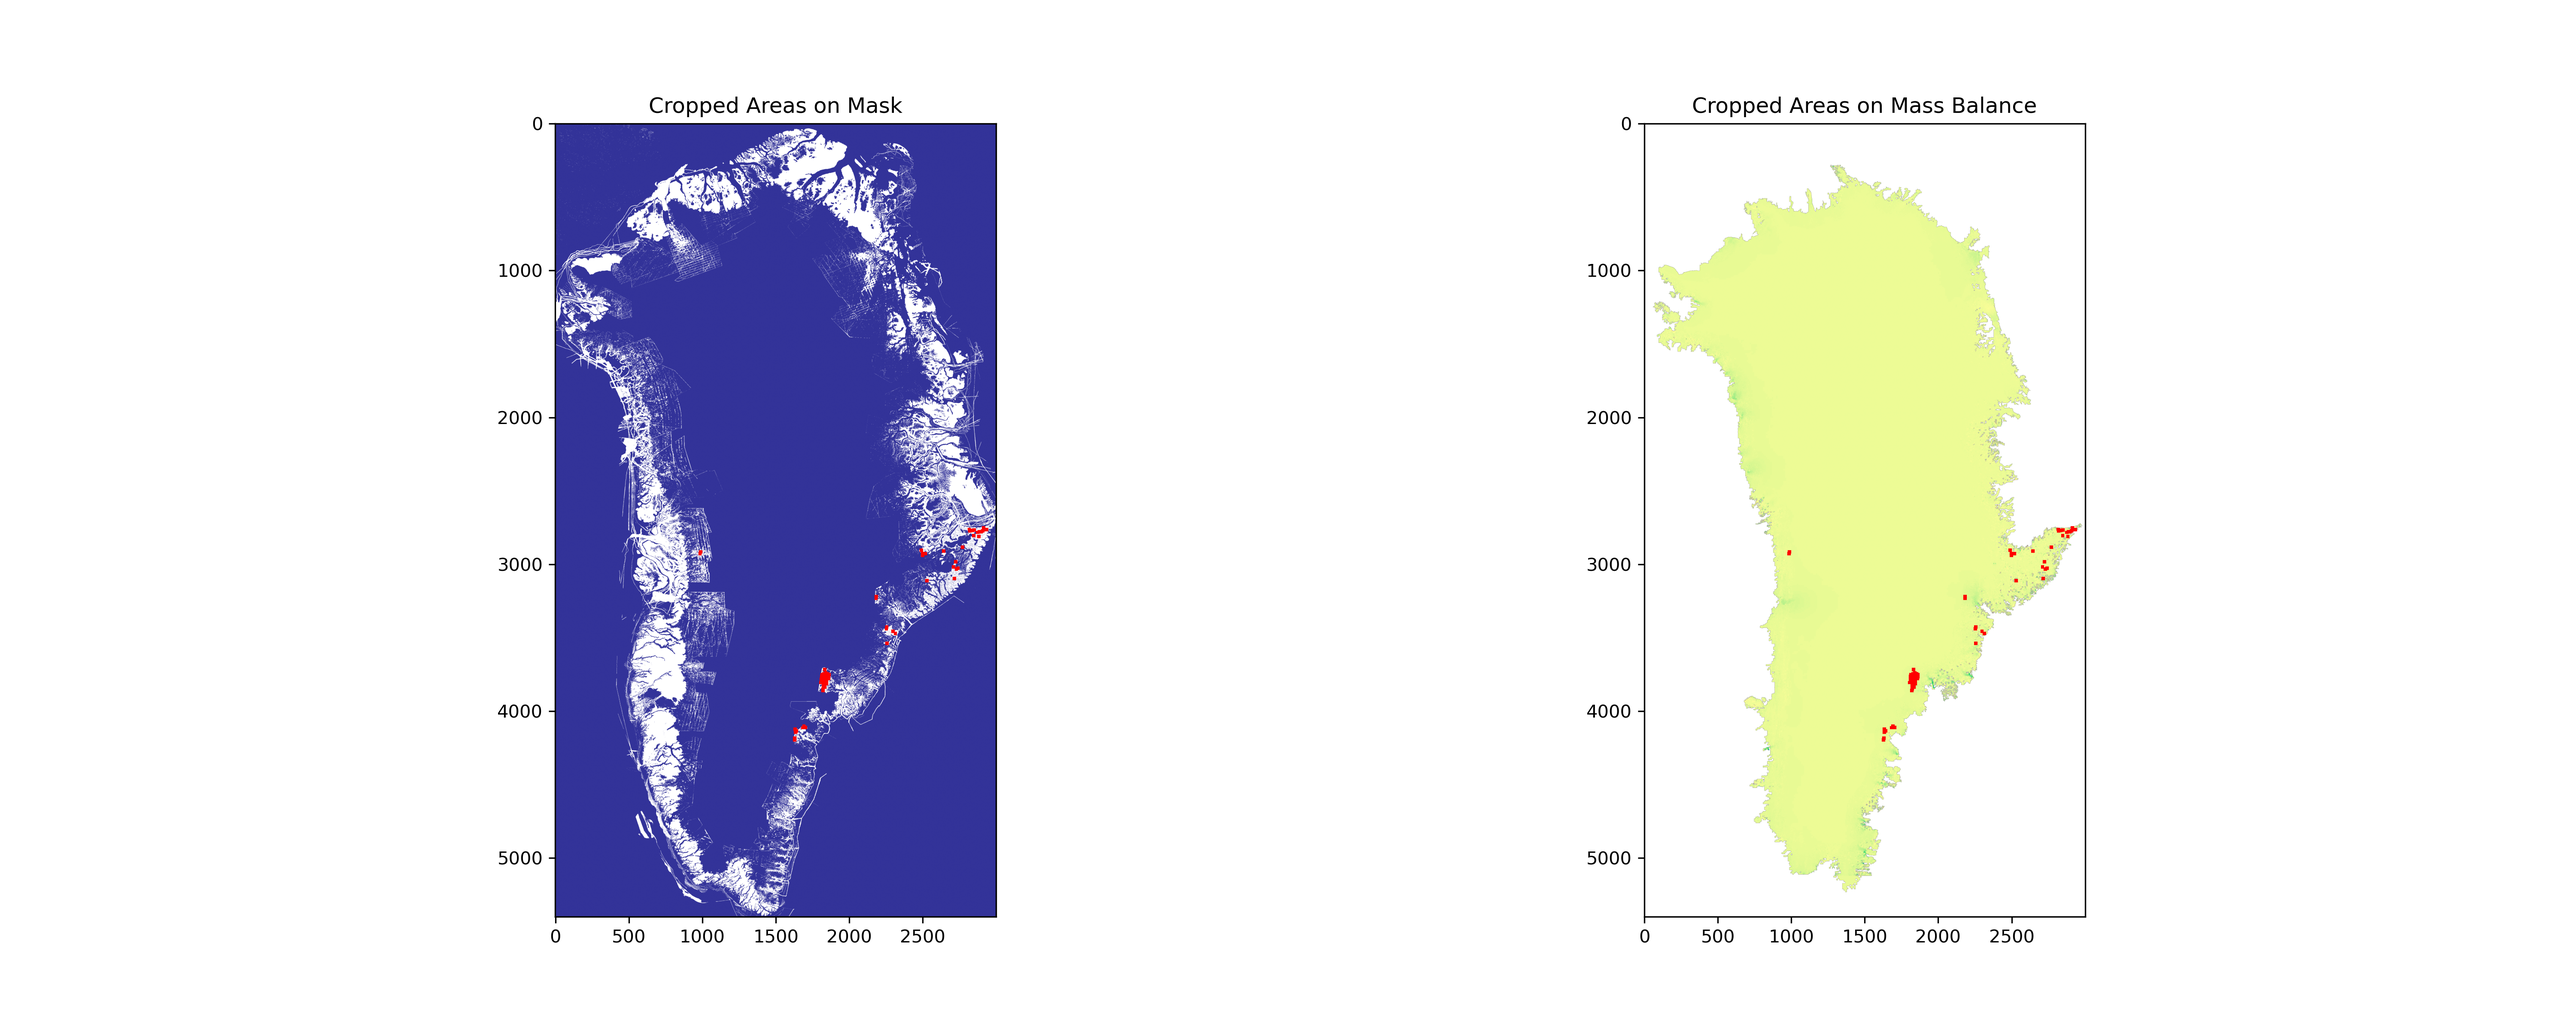
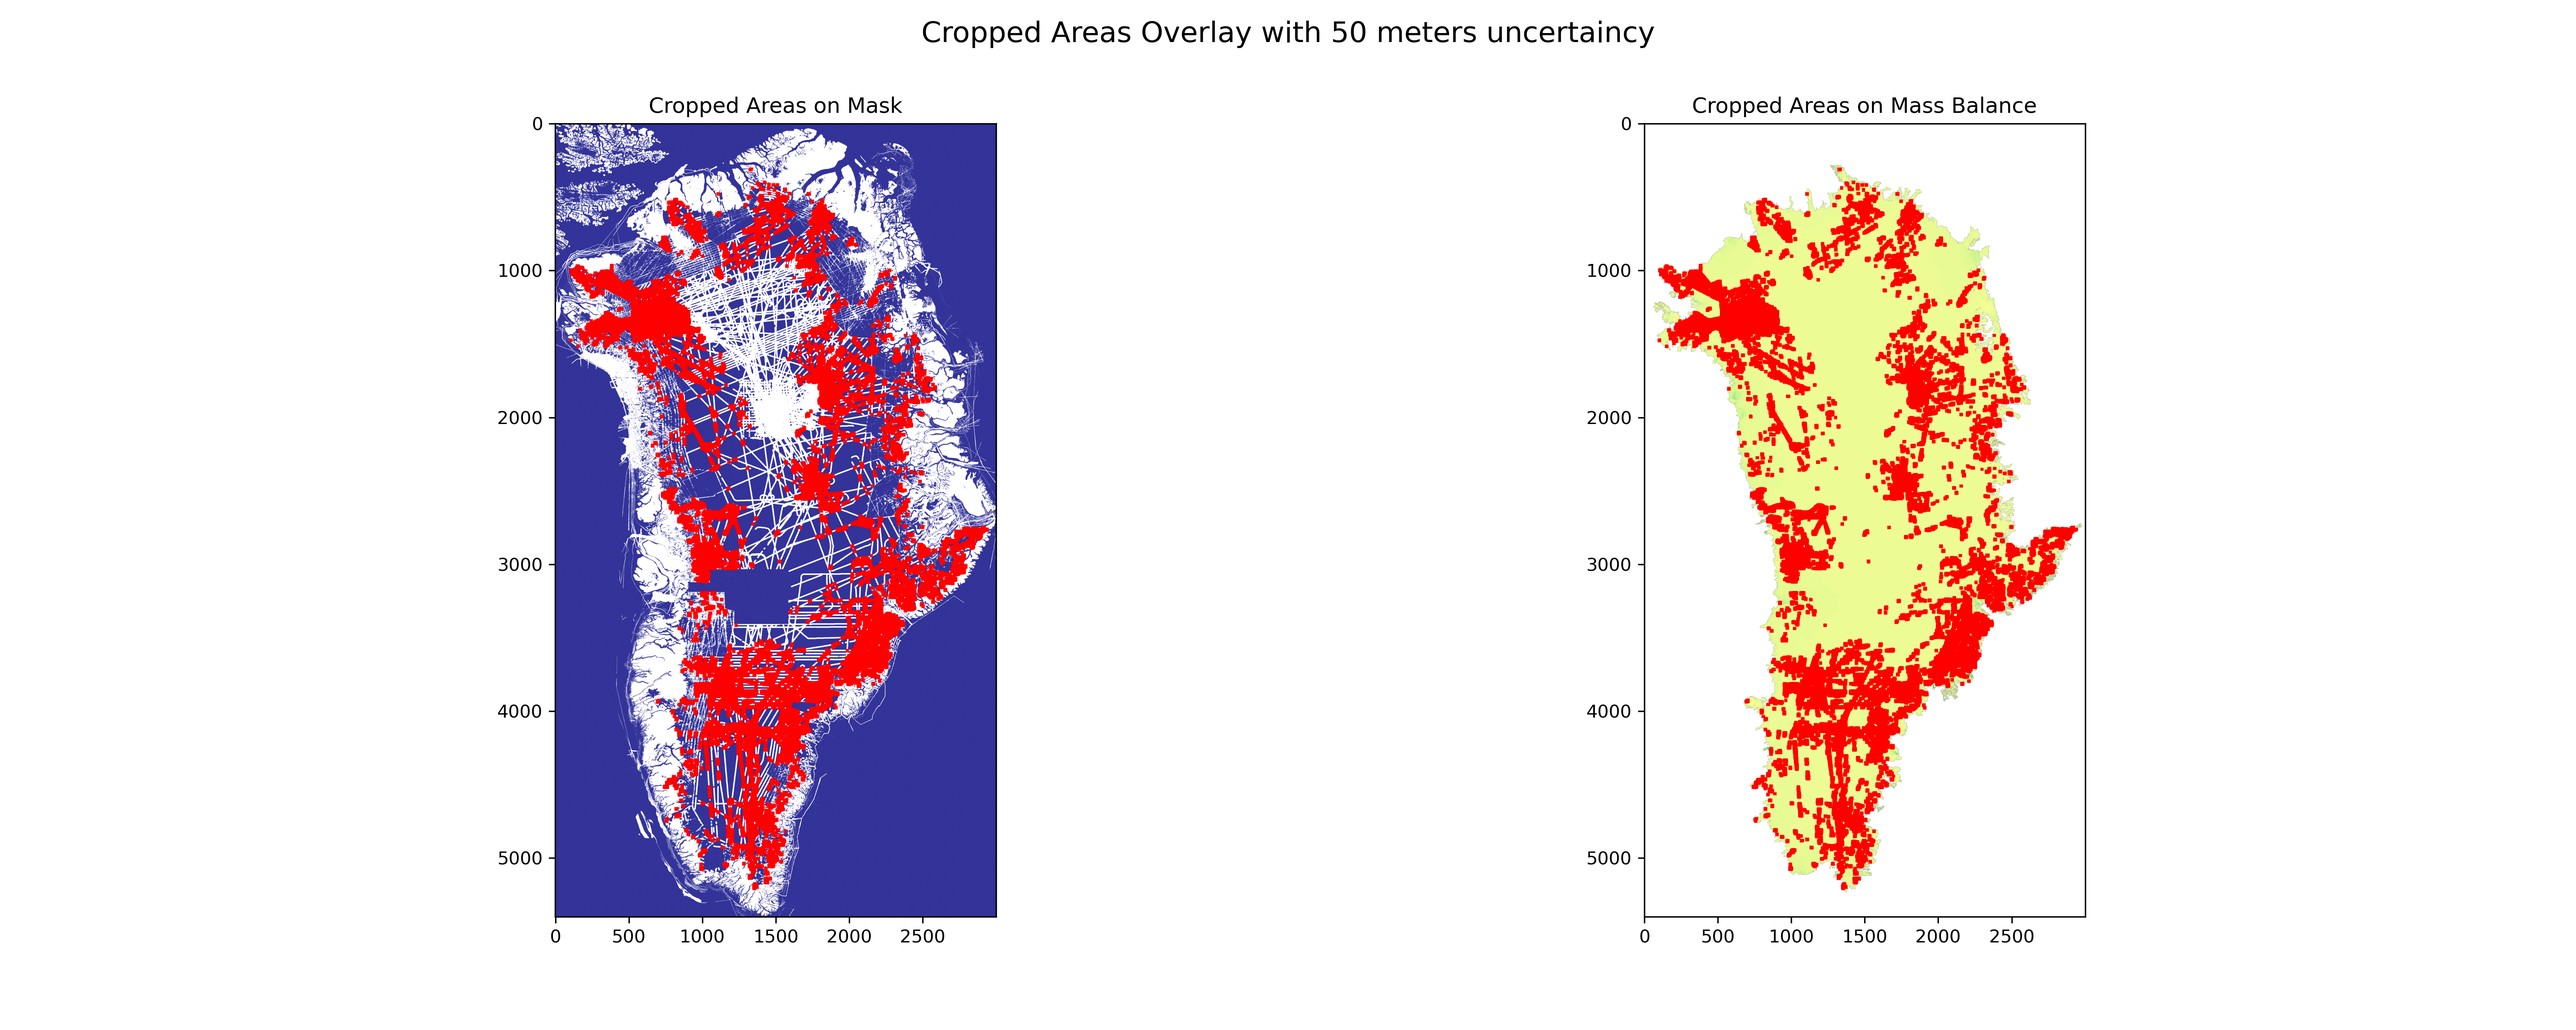
Makes no crops in specified area

diff --git a/data/find_location.py b/data/find_location.py
@@ -7,10 +7,7 @@ import xarray as xr
 import matplotlib.pyplot as plt
 import matplotlib.patches as patches
 from tqdm import tqdm
-import re
-import pyproj
-from affine import Affine
-
+from utils import create_mask
 class CroppedAreaGenerator:
     def __init__(self, 
                  bedmachine_path = os.path.join("data", "inputs", "Bedmachine", "BedMachineGreenland-v5.nc"), 
@@ -36,87 +33,13 @@ class CroppedAreaGenerator:
         self.bed_tensor, self.mask_tensor, self.ice_velocity_tensor, self.mass_balance_tensor, self.transform_info = self._load_and_preprocess_data()
         self.bed_tensor_transform = self.transform_info["reprojected_transform"]
 
-        if coordinates is not None:
-            lat, lon = coordinates
-            source_crs = pyproj.CRS("EPSG:4326")
-            target_crs = pyproj.CRS("EPSG:3413")
-            transformer = pyproj.Transformer.from_crs(source_crs, target_crs, always_xy=True)
-            x_3413, y_3413 = transformer.transform(lon, lat)
-            print(f"Original Coordinates (Lat, Lon): ({lat}, {lon})")
-            print(f"Reprojected Point (X, Y in EPSG:3413): ({x_3413}, {y_3413})")
-            print(f"Size of ice_velocity_tensor: {self.ice_velocity_tensor.shape}")
+        self.coordinates = coordinates
+        self.coordinate_tensor = create_mask(self.ice_velocity_data['land_ice_surface_easting_velocity'],
+                                            coordinates['lat_deg'], coordinates['lat_min'], coordinates['lat_hem'],
+                                            coordinates['lon_deg'], coordinates['lon_min'], coordinates['lon_hem'],
+                                            area_around_point=50)
 
-            fig, ax = plt.subplots(figsize=(10, 8))
-
-            plot_data = self.ice_velocity_data['land_ice_surface_easting_velocity'].plot(
-                ax=ax,
-                cmap='viridis', 
-                cbar_kwargs={'label': 'Ice Velocity (m/s)'},
-            )
-
-            ax.scatter(
-                x_3413,      
-                y_3413,       
-                color='red',  
-                s=100,       
-                edgecolor='black', 
-                marker='*',   
-                label=f'Point ({lat:.2f}N, {lon:.2f}E)', # Label for legend
-                zorder=10     # Ensure point is drawn on top
-            )
-
-            # --- 4. Customize Plot ---
-            ax.set_title('Ice Velocity Data with Reprojected Point Location')
-            # xarray.plot usually sets reasonable labels based on coordinate names and attrs
-            # ax.set_xlabel("X Coordinate (EPSG:3413 meters)")
-            # ax.set_ylabel("Y Coordinate (EPSG:3413 meters)")
-            ax.legend() # Show the legend to identify the point
-            ax.set_aspect('equal', adjustable='box') # Maintain aspect ratio for map data
-            plt.grid(True, linestyle='--', alpha=0.5) # Add a light grid
-            plt.tight_layout() # Adjust layout to prevent labels overlapping
-            plt.show() # Display the plot
-            plt.savefig("blablabla.png")
-                
-            exit()
-            x, y, row, col = self.convert_latlon_to_pixel_ice_velocity(lat, lon)
-            self.valid_indices = [self.find_largest_crop_around(col, row)]
-        else:
-            self.valid_indices = self._find_valid_crop_indices()
-
-
-    
-    def find_largest_crop_around(self, center_row, center_col, max_size=101):
-        step = 0
-        while True:
-            top = center_row - step - 1
-            bottom = center_row + step + 2
-            left = center_col - step - 1
-            right = center_col + step + 2
-
-            if top < 0 or bottom > self.mask_tensor.shape[0] or left < 0 or right > self.mask_tensor.shape[1]:
-                break
-
-            crop_mask = self.mask_tensor[top:bottom, left:right]
-            crop_bed = self.bed_tensor[top:bottom, left:right]
-            crop_vel = self.ice_velocity_tensor[top:bottom, left:right]
-            crop_mb = self.mass_balance_tensor[top:bottom, left:right]
-
-            if torch.all(crop_mask == 1) and torch.all(crop_bed > 0) and torch.all(~torch.isnan(crop_vel)) and torch.all(~torch.isnan(crop_mb)):
-                step += 1
-                continue
-            else:
-                break
-
-        step -= 1
-        top = center_row - step
-        left = center_col - step
-        bottom = center_row + step + 1
-        right = center_col + step + 1
-
-        return {
-            "projected": [top, left, bottom, right],
-            "original": self._projected_to_original_coords(top, left) + self._projected_to_original_coords(bottom, right)
-        }
+        self.valid_indices = self._find_valid_crop_indices()
 
     def _load_and_preprocess_data(self):
         original_bed = self.bedmachine_data["bed"]
@@ -136,8 +59,8 @@ class CroppedAreaGenerator:
         ice_velocity = self.ice_velocity_data["land_ice_surface_easting_velocity"]
         ice_velocity_tensor = torch.tensor(ice_velocity.values.astype(np.float32)).squeeze(0)
 
-        self.uncertaincy_criteria = 30
-        mask_tensor = (errbed_tensor < self.uncertaincy_criteria).float() if self.precise else (errbed_tensor >= self.uncertaincy_criteria).float()
+        self.uncertaincy_criteria = 50
+        mask_tensor = (errbed_tensor <= self.uncertaincy_criteria).float() if self.precise else (errbed_tensor > self.uncertaincy_criteria).float()
 
         transform_info = {
             "original_shape": original_bed.shape,
@@ -170,7 +93,7 @@ class CroppedAreaGenerator:
         tqdm_bar = tqdm(range(edge_margin, h - self.crop_size - edge_margin + 1), desc="Finding valid crops")
         for i in tqdm_bar:
             for j in range(edge_margin, w - self.crop_size - edge_margin + 1):
-                if not self.precise and occupied[i:i + self.crop_size, j:j + self.crop_size].any():
+                if not self.precise and occupied[i:i + self.crop_size, j:j + self.crop_size].any() or (self.coordinates and self.coordinate_tensor[i:i + self.crop_size, j:j + self.crop_size].any()):
                     continue
 
                 crop_mask = self.mask_tensor[i:i + self.crop_size, j:j + self.crop_size]
@@ -267,9 +190,10 @@ class CroppedAreaGenerator:
 
 if __name__ == '__main__':
 
-    coordinates = (68.38, 33.00)
-    coordinates = (round(int(coordinates[0]) + (coordinates[0] % 1*100 / 60),4), round(int(coordinates[1]) + (coordinates[1] % 1*100 / 60),4))
-    crop_generator = CroppedAreaGenerator(crop_size=11, precise=True, coordinates=coordinates) 
+    coordinate = {'lat_deg': 68, 'lat_min': 38, 'lat_hem': 'N',
+                  'lon_deg': 33, 'lon_min': 0, 'lon_hem': 'W'}
+
+    crop_generator = CroppedAreaGenerator(crop_size=11, precise=True, coordinates=coordinate) 
     cropped_areas = crop_generator.generate_and_save_crops()
 
     if cropped_areas:

diff --git a/data/utils.py b/data/utils.py
@@ -1,8 +1,7 @@
 import matplotlib.pyplot as plt
-import cartopy.crs as ccrs
-import cartopy.feature as cfeature
-import pygmt as gmt
-
+from pyproj import Transformer
+import numpy as np
+import torch
 
 def plot_tensor(tensor, title, filename, cmap='viridis', show=False):
     """ Generic function to plot PyTorch tensors and save the figure. """
@@ -18,20 +17,62 @@ def plot_tensor(tensor, title, filename, cmap='viridis', show=False):
     plt.savefig(f"figures/{filename}", dpi=300, bbox_inches='tight')
     if show:
         plt.show()
-    
-def plot_greenland():
-    fig = gmt.Figure()
-    gmt.makecpt(cmap="jet", series=[-2800, 2800, 200], D="o")
-    fig.grdimage(
-        region=[-2700000, 2800000, -2200000, 2300000],
-        projection="X8c/7c",
-       # grid="lowres/bedmap2_bed.tif",
-        cmap=True,
-        I="+d",
-        Q=True,
-        # frame='+t"BEDMAP2"'
-    )
-    fig.show()
         
+def dms_to_epsg3413(lat_deg: int, lat_min: float, lat_hem: str,
+                    lon_deg: int, lon_min: float, lon_hem: str):
+    """
+    Convert latitude/longitude in degrees and minutes to EPSG:3413 projected coordinates.
+
+    Args:
+        lat_deg (int): Degrees part of latitude.
+        lat_min (float): Minutes part of latitude.
+        lat_hem (str): 'N' or 'S' hemisphere.
+        lon_deg (int): De   grees part of longitude.
+        lon_min (float): Minutes part of longitude.
+        lon_hem (str): 'E' or 'W' hemisphere.
+
+    Returns:
+        (float, float): x, y coordinates in EPSG:3413
+    """
+    # Convert to decimal degrees
+    lat = lat_deg + lat_min / 60.0
+    if lat_hem.upper() == 'S':
+        lat *= -1
+
+    lon = lon_deg + lon_min / 60.0
+    if lon_hem.upper() == 'W':
+        lon *= -1
+
+    # Transform to EPSG:3413
+    transformer = Transformer.from_crs("EPSG:4326", "EPSG:3413", always_xy=True)
+    x, y = transformer.transform(lon, lat)
+    return x, y
+
+def create_mask(ice_velocity, lat_deg: int, lat_min: float, lat_hem: str,
+                    lon_deg: int, lon_min: float, lon_hem: str, area_around_point: int):
+    
+    x_vals = ice_velocity.x.values
+    y_vals = ice_velocity.y.values
+
+    x, y = dms_to_epsg3413(lat_deg, lat_min, lat_hem,
+                                     lon_deg, lon_min, lon_hem)
+
+    x_idx = np.searchsorted(x_vals, x)
+    y_idx = np.searchsorted(y_vals[::-1], y)
+    y_idx = len(y_vals) - 1 - y_idx  # Flip due to descending Y
+
+    # === Create tensors ===
+    ice_velocity_tensor = torch.tensor(ice_velocity.values.astype(np.float32)).squeeze(0)
+    mask = torch.zeros_like(ice_velocity_tensor, dtype=torch.bool)
+
+    mask[y_idx, x_idx] = True
+
+    for i in range(-area_around_point, area_around_point + 1):
+        for j in range(-area_around_point, area_around_point + 1):
+            if 0 <= y_idx + i < ice_velocity_tensor.shape[0] and 0 <= x_idx + j < ice_velocity_tensor.shape[1]:
+                mask[y_idx + i, x_idx + j] = True
+
+    return mask
+
 if __name__ == '__main__':
-    plot_greenland()
+    dms_to_epsg3413(38, 33, 'N', 33, 0, 'W')
